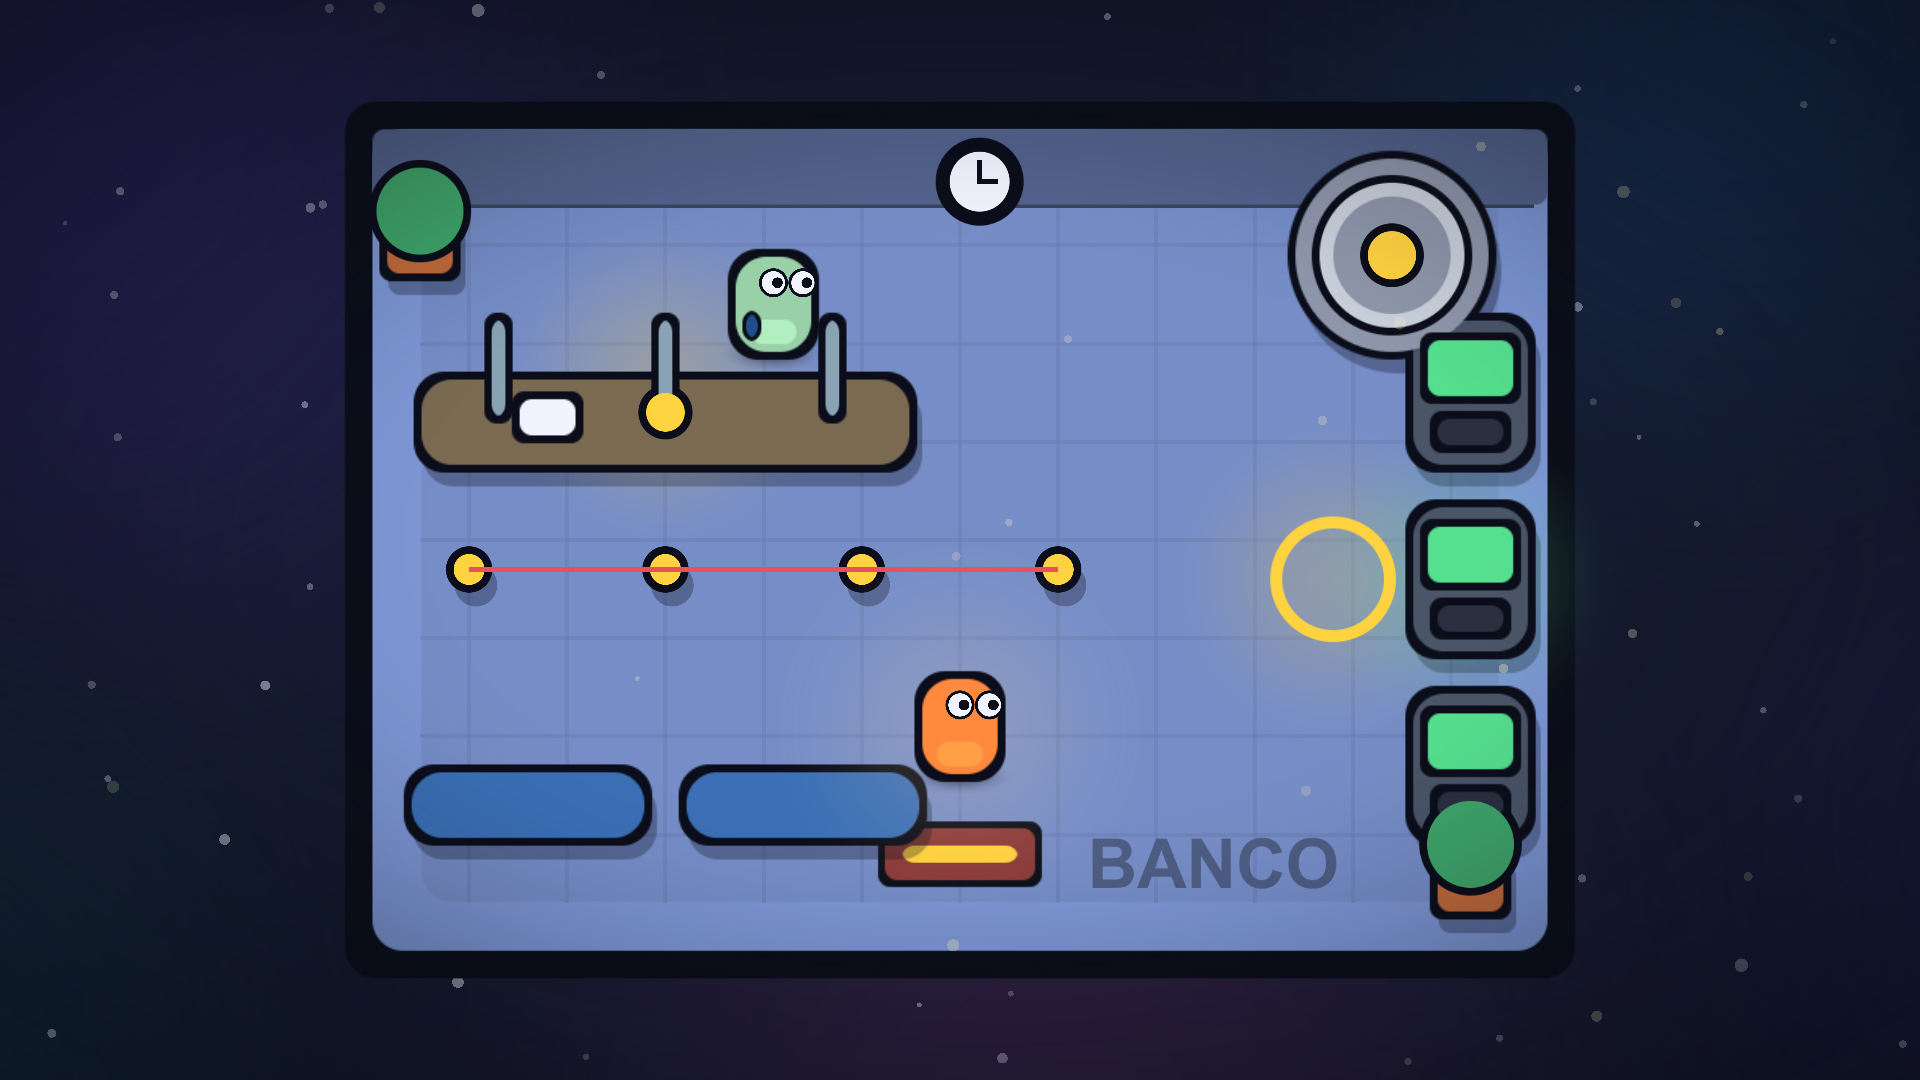
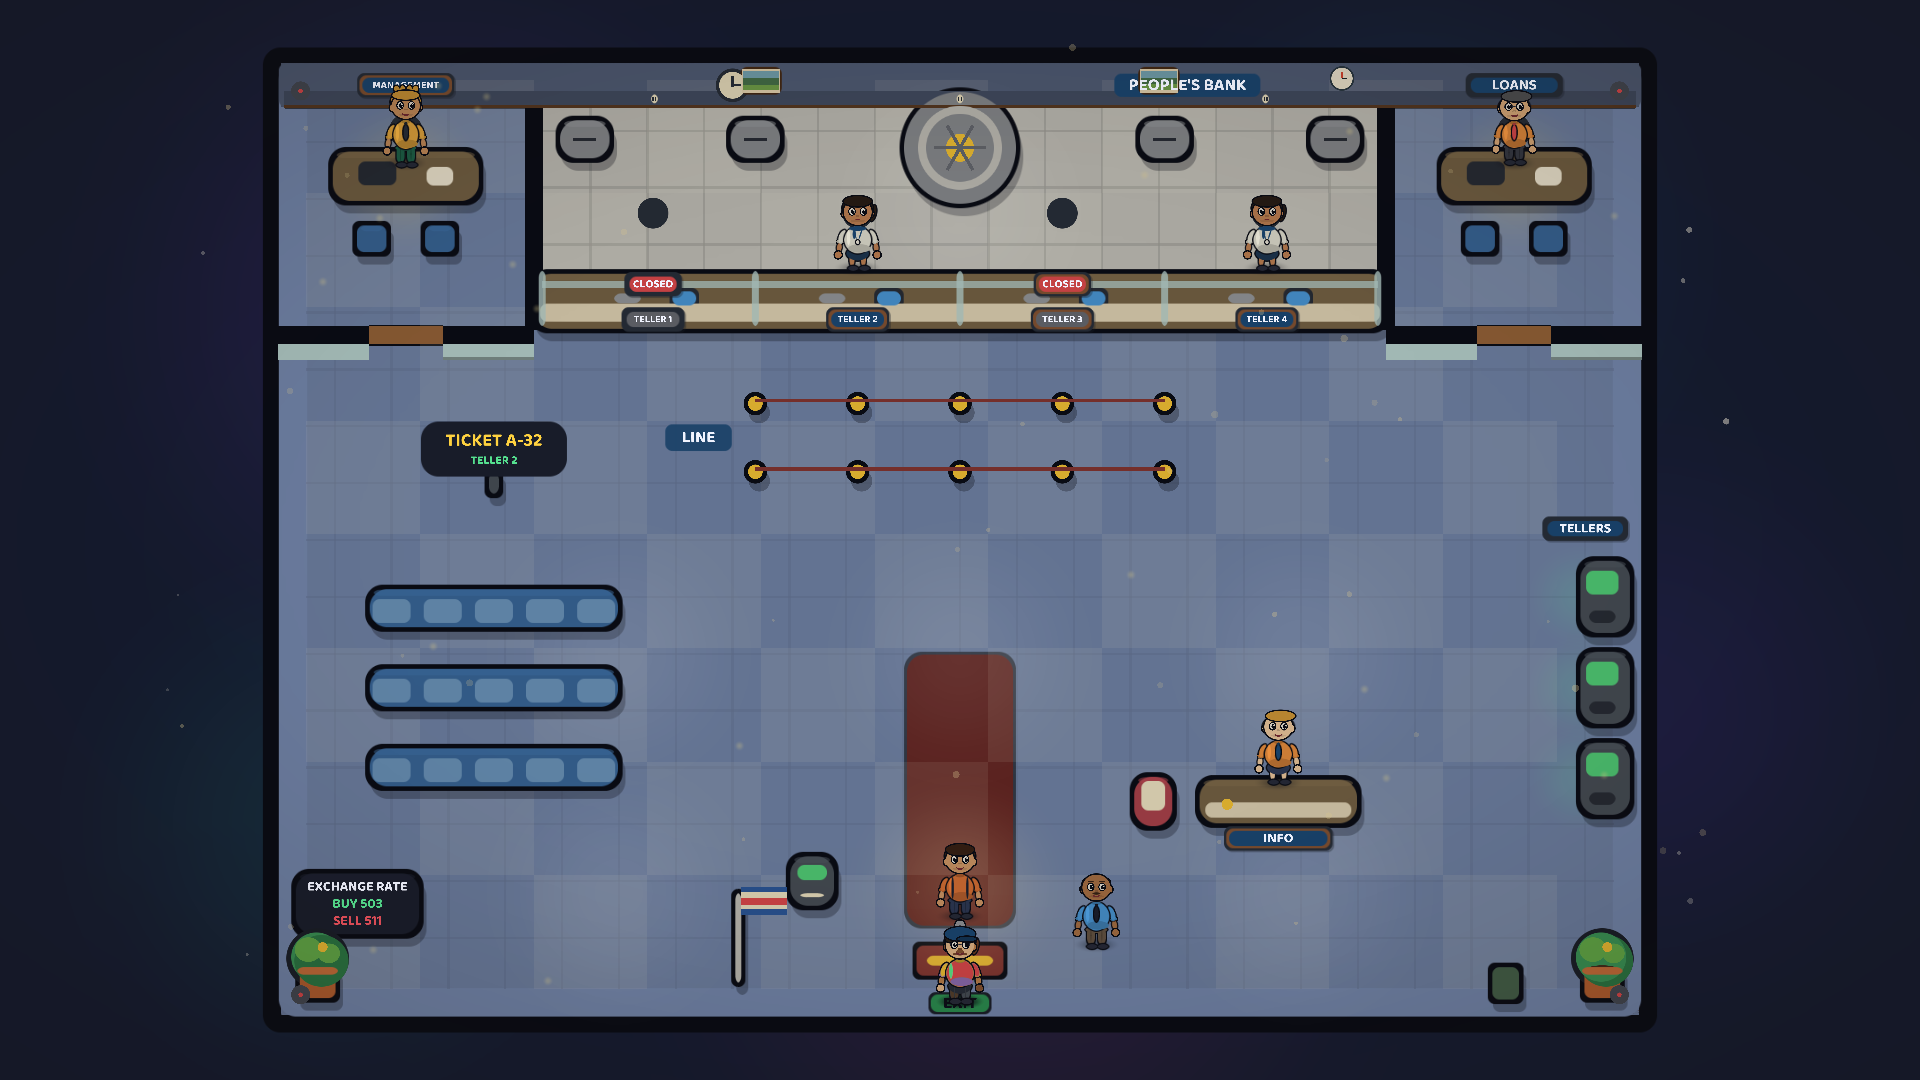
docs(unity): current pictures of the town, a street and the bank [SCRUM-146]
Rendered from today's scenes with MapBuilder.RenderPreview. The town picture from 27 October,
before the districts, is replaced by the whole world.

diff --git a/unity/README.md b/unity/README.md
@@ -54,7 +54,7 @@ show 118 by 91 units (`MapLayout.TownBounds`), and every edge is a natural barri
 
 Each place is a kind of money decision. `TownPlaces.All` lists what the map shows.
 
-![The original town, before the two districts](../docs/art/town.png)
+![The whole town with its districts, the beach and the sea](../docs/art/world.png)
 
 | Place | Scene or station | What it is for |
 | --- | --- | --- |
@@ -184,17 +184,17 @@ The camera follows the user smoothly and never shows past the edge of the map
 
 ## Art style
 
-The whole simulation uses an Among Us style cartoon look, not pixel art:
+The whole simulator uses a flat cartoon look, not pixel art:
 
 - Flat solid fills with thick dark outlines and rounded corners. No gradients, no pixel filtering.
 - Colors come only from `Scripts/World/GamePalette.cs`. Green is money in, red is debt, blue is an alert, yellow marks a station.
 - Shapes are white sprites tinted per object, so there are no hand-drawn assets to keep in sync.
 
-What the camera saw during a run on 27 October, and an interior:
+A street of the town and the bank, rendered from the current scenes with `MapBuilder.RenderPreview` on 4 November:
 
-![Simulator view](../docs/art/town-ingame.png)
+![A street with the lender and the pyramid stand](../docs/art/town-ingame.png)
 
-![Banco interior](../docs/art/interior-banco.png)
+![The bank interior](../docs/art/interior-banco.png)
 
 ## Depth and lighting
 
